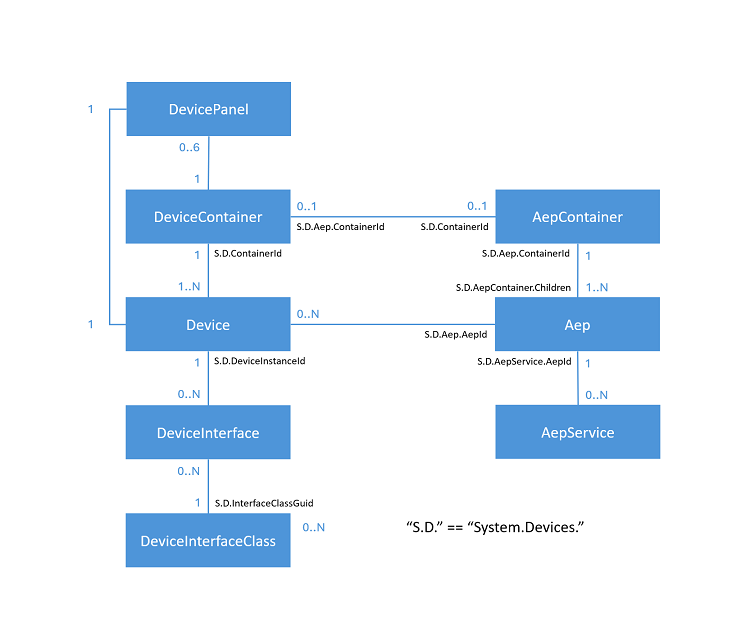
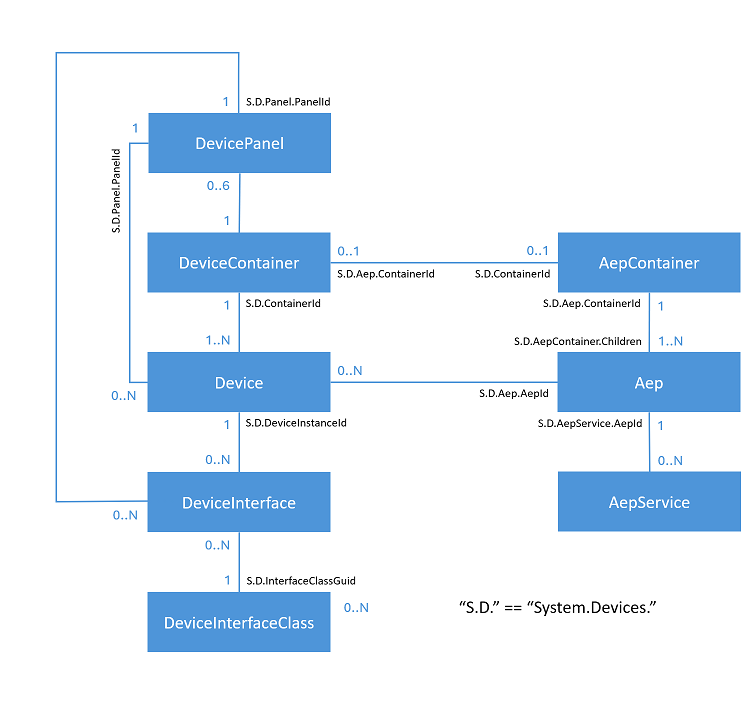
Merged PR 20642: Fixing diagram, more examples

Changed region(s): [[0.0613, 0.1226, 1.0, 0.9194], [0.552, 0.8274, 0.8587, 0.8581], [0.0613, 0.0613, 0.3373, 0.0919]]

diff --git a/windows.devices.enumeration/deviceinformationkind.md b/windows.devices.enumeration/deviceinformationkind.md
@@ -79,6 +79,26 @@ The following diagram shows how the different device types interact with each ot
 
 <img src="images/device_type_interaction.png" alt="DeviceInformationKind relationships" />
 
+Below is an example of how the device objects map on a webcam. You can see one container, four devnodes, and the expanded devnode has five interfaces (three of which are enabled).
+
+<img src="images/example_1.png" alt="Device objects for a webcam" />
+
+Looking at the device properties of the selected (highlighted) interface, you can see how the properties are used to tie the object model together. The key names shown are in fact the Win32 versions. In the Windows Runtime (WinRT), the properties are mapped by the property system (see [Devices (Windows Property System)](https://learn.microsoft.com/windows/win32/properties/devices-bumper)).
+
+<img src="images/example_2.png" alt="X" />
+
+For example, you could take an interface class Id, and find the class object. Below, you can see that it's a *Cameras* class; and you can get more info about the class.
+
+<img src="images/example_3.png" alt="X" />
+
+Here's another example; this time of a Bluetooth headset. The devnode is selected. And highlighted is the AEP Id that it maps to for the association endpoint object.
+
+<img src="images/example_4.png" alt="X" />
+
+Lastly, Here's an example of a devnode that shows what panel it belongs to, together with its Id. The panel represents the USB ports on the top of a personal computer's chassis.
+
+<img src="images/example_5.png" alt="X" />
+
 ### Version history
 
 | Windows version | SDK version | Value added |
